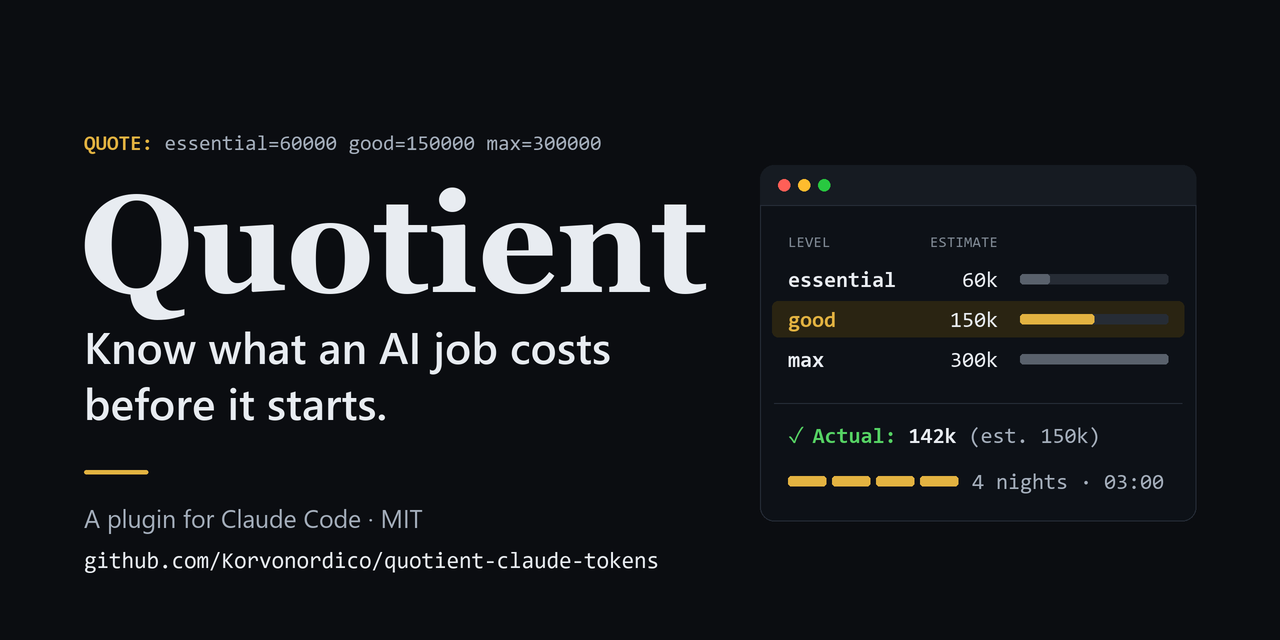
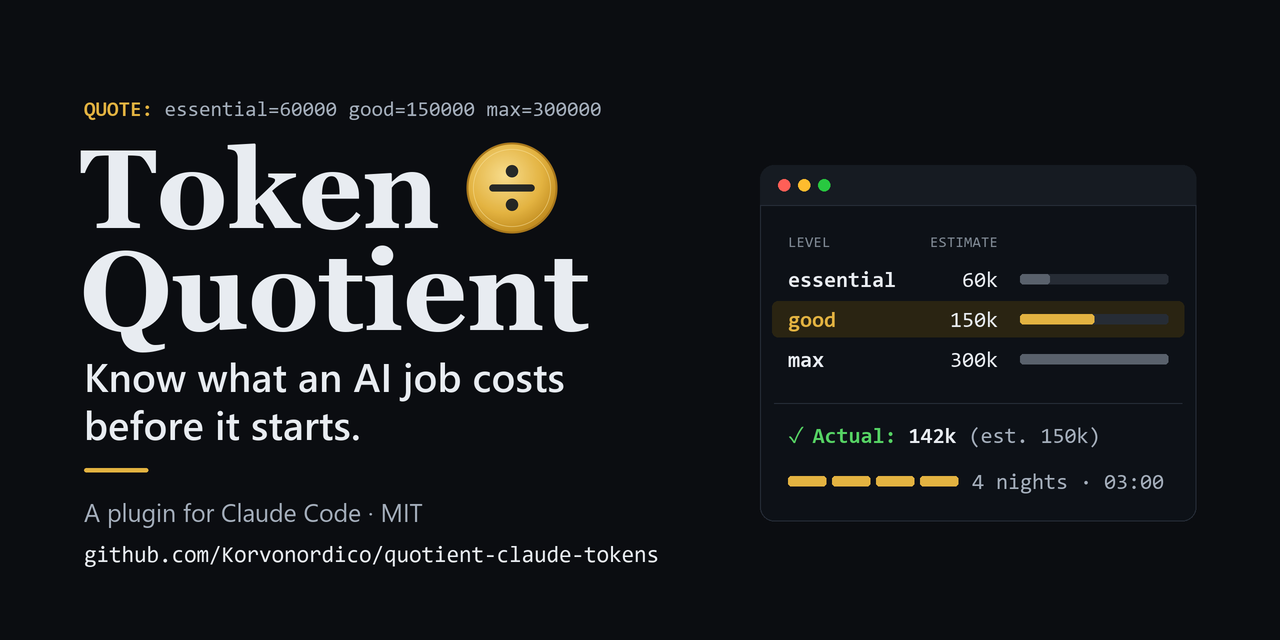
Social preview and demo title with the new name (Token Quotient); changelog links the 0.9.8 release

Changed region(s): [[0.0625, 0.1562, 0.5625, 0.6875], [0.0625, 0.7812, 0.5312, 0.9062], [0.0625, 0.7188, 0.125, 0.75]]

diff --git a/CHANGELOG.md b/CHANGELOG.md
@@ -1,6 +1,6 @@
 # Changelog
 
-All notable changes to Token Quotient (Quotient for short; called Quotient up to 0.9.7) are listed here. The format follows [Keep a Changelog](https://keepachangelog.com/en/1.1.0/). Versions are those of `.claude-plugin/plugin.json`; dates are those of the commits. The repository has no git tags yet, so each version links to the commit that released it.
+All notable changes to Token Quotient (Quotient for short; called Quotient up to 0.9.7) are listed here. The format follows [Keep a Changelog](https://keepachangelog.com/en/1.1.0/). Versions are those of `.claude-plugin/plugin.json`; dates are those of the commits. Each version links to the commit that released it; from 0.9.7 on, it also has a GitHub release with the same notes.
 
 ## [0.9.8] - 2026-10-12
 
@@ -169,7 +169,7 @@ All notable changes to Token Quotient (Quotient for short; called Quotient up to
 
 - First version: a quote before big jobs (*essential*, *good*, *max*) above a threshold you choose; the real cost after, read from Claude Code's transcripts, in weighted tokens; a correction factor learned from the difference; big jobs in daily installments with a spending cap (`rate new`, `rate run`, `rate schedule`, `rate status`); `/quotient:report` and `/quotient:rate`.
 
-[0.9.8]: https://github.com/Korvonordico/quotient-claude-tokens/compare/6fc9013...main
+[0.9.8]: https://github.com/Korvonordico/quotient-claude-tokens/releases/tag/v0.9.8
 [0.9.7]: https://github.com/Korvonordico/quotient-claude-tokens/commit/6fc9013
 [0.9.6]: https://github.com/Korvonordico/quotient-claude-tokens/commit/3091a62
 [0.9.5]: https://github.com/Korvonordico/quotient-claude-tokens/commit/12da94a
